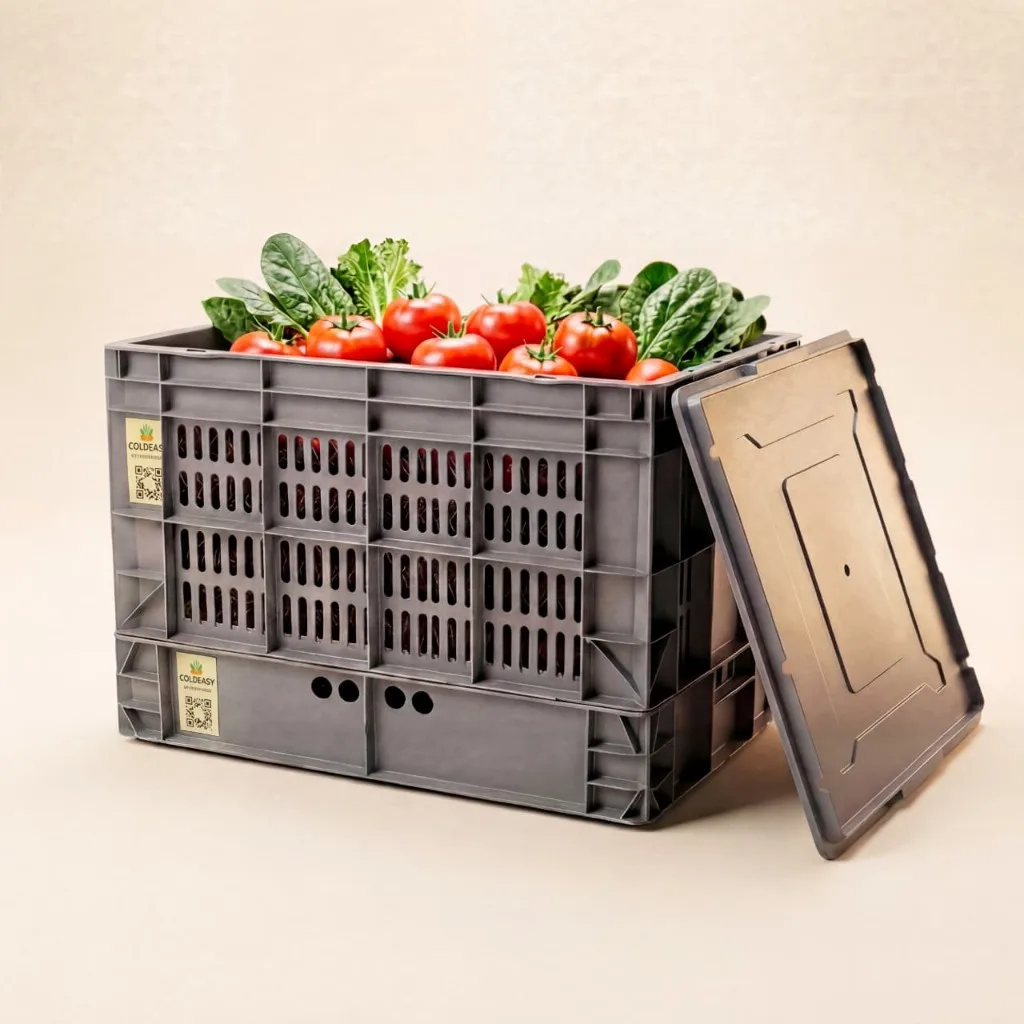
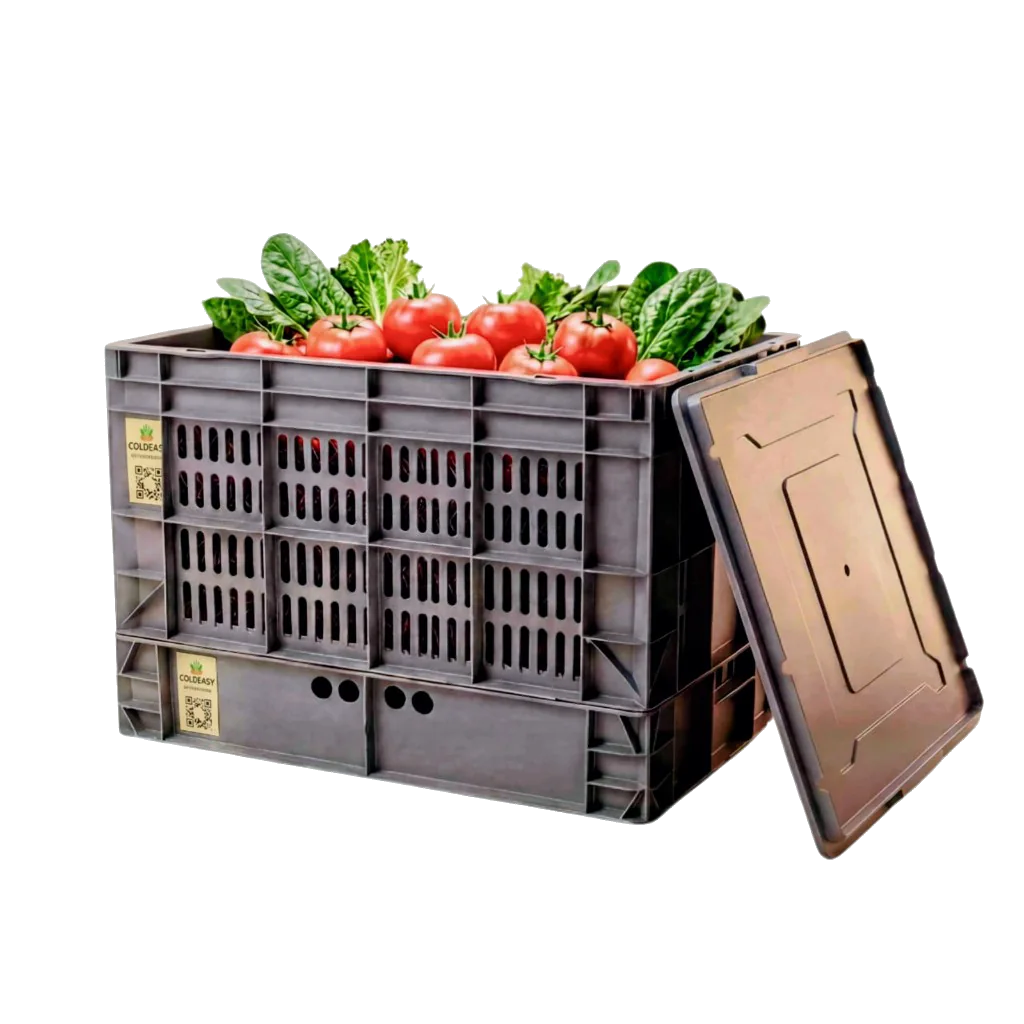
Put the brighter crate on the shared cream background and enlarge the testimonial photo.

diff --git a/src/components/TestimonialsSection.tsx b/src/components/TestimonialsSection.tsx
@@ -81,20 +81,23 @@ export const TestimonialsSection: React.FC = () => {
         </div>
 
         <div className="grid grid-cols-1 items-stretch gap-6 lg:grid-cols-12 lg:gap-8">
-          <article className="relative overflow-hidden rounded-[28px] bg-sand lg:col-span-5">
-            <div className="relative flex min-h-[460px] flex-col justify-end p-5 sm:min-h-[520px] sm:p-6">
-              <div
-                className="mb-auto flex h-16 w-16 items-center justify-center overflow-hidden rounded-full bg-studio"
-                aria-hidden="true"
-              >
+          <article className="flex flex-col overflow-hidden rounded-[28px] bg-sand lg:col-span-5">
+            <div className="flex flex-col p-3 pb-0 sm:p-4 sm:pb-0 lg:min-h-[360px] lg:flex-1">
+              <div className="relative aspect-[4/5] overflow-hidden rounded-[22px] bg-studio lg:aspect-auto lg:min-h-[320px] lg:flex-1">
                 {activeStory.image && !activeStory.photoPlaceholder ? (
-                  <img src={activeStory.image} alt="" className="h-full w-full object-cover" />
+                  <img
+                    src={activeStory.image}
+                    alt={activeStory.customerName}
+                    className="absolute inset-0 h-full w-full object-cover object-[center_30%]"
+                  />
                 ) : (
-                  <span className="font-heading text-xl font-black text-ink">
+                  <span className="absolute inset-0 flex items-center justify-center font-heading text-4xl font-black text-ink">
                     {initials(activeStory.customerName)}
                   </span>
                 )}
               </div>
+            </div>
+            <div className="p-5 sm:p-6">
               <Quote className="mb-3 h-7 w-7 fill-marigold text-marigold" />
               <blockquote className="font-body text-base font-medium leading-relaxed text-ink sm:text-lg">
                 {t(`story.${activeStory.id}.quote`)}

diff --git a/src/index.css b/src/index.css
@@ -284,24 +284,24 @@ html.dark .media-logo {
 }
 
 .hero-scene {
-  /* Open backdrop of the approved hero photo. */
-  background-color: #f7ebde;
+  background-color: var(--color-cream);
   color: var(--color-ink);
 }
 
-.hero-frame {
-  -webkit-mask-image:
-    linear-gradient(to right, transparent, #000 5%, #000 95%, transparent),
-    linear-gradient(to bottom, transparent, #000 6%, #000 94%, transparent);
-  -webkit-mask-composite: source-in;
-  mask-image:
-    linear-gradient(to right, transparent, #000 5%, #000 95%, transparent),
-    linear-gradient(to bottom, transparent, #000 6%, #000 94%, transparent);
-  mask-composite: intersect;
+.hero-product {
+  filter:
+    drop-shadow(0 16px 12px rgba(37, 26, 16, 0.22))
+    drop-shadow(0 34px 28px rgba(37, 26, 16, 0.18));
 }
 
 html.dark .hero-scene {
   background-color: #14120e;
+}
+
+html.dark .hero-product {
+  filter:
+    drop-shadow(0 16px 16px rgba(0, 0, 0, 0.42))
+    drop-shadow(0 34px 40px rgba(0, 0, 0, 0.34));
 }
 
 html.dark .home-fade-hero {
@@ -353,7 +353,7 @@ html.dark .how-works-stage {
 }
 
 .home-fade-hero {
-  --home-fade-from: #f7ebde;
+  --home-fade-from: var(--color-cream);
 }
 
 .home-fade-works {

diff --git a/src/components/HowItWorksSection.tsx b/src/components/HowItWorksSection.tsx
@@ -427,7 +427,7 @@ export const HowItWorksSection: React.FC<HowItWorksSectionProps> = ({
       ref={sectionRef}
       className={`home-fade home-fade-hero relative w-full overflow-hidden ${className}`}
       style={{
-        background: 'linear-gradient(to bottom, #f7ebde 0%, #E4DCCB 100%)',
+        background: 'linear-gradient(to bottom, #fcfbf1 0%, #E4DCCB 100%)',
       }}
     >
       <div className="relative z-10 max-w-[900px] mx-auto px-4 sm:px-6 py-14 sm:py-16 md:py-20 text-center">
